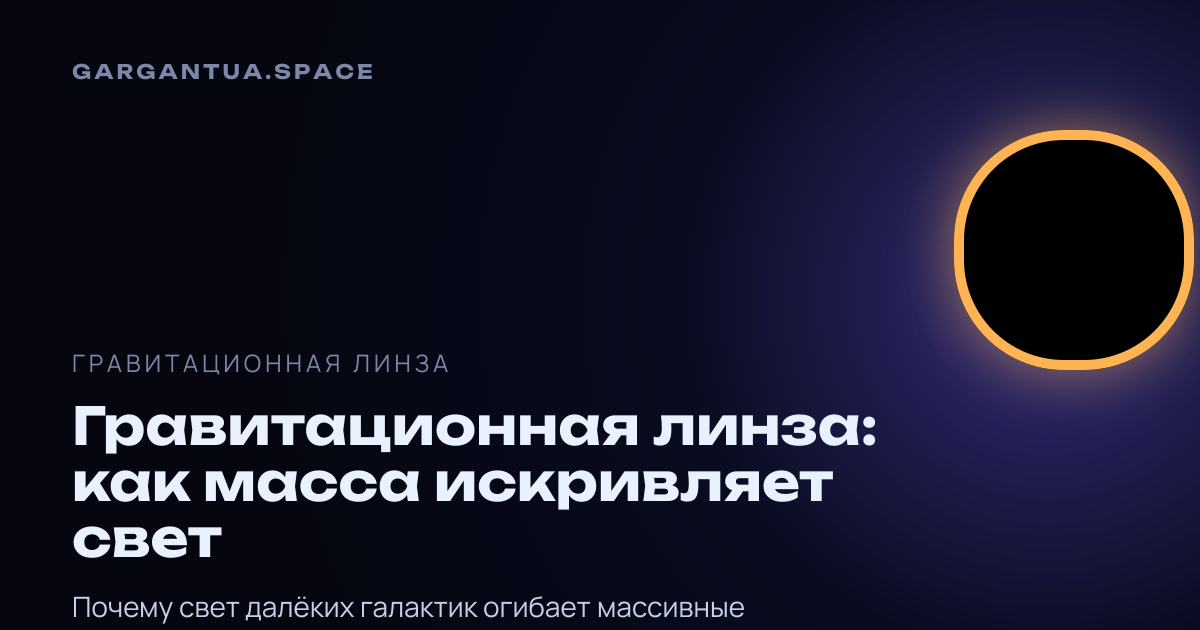
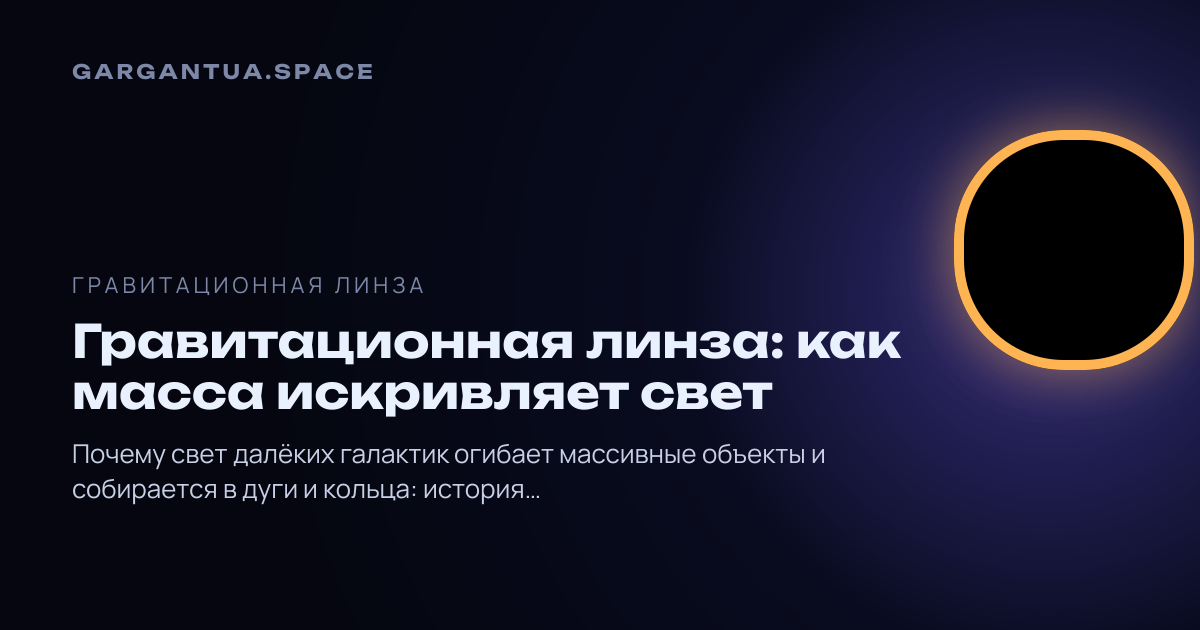
fix: OG-картинка — текст по фиксированной координате, короткий подзаголовок

Changed region(s): [[0.0617, 0.5127, 0.7708, 0.9048], [0.0617, 0.9349, 0.6167, 0.9952], [0.0617, 0.4222, 0.3392, 0.4825]]

diff --git a/src/pages/og/[...path].png.ts b/src/pages/og/[...path].png.ts
@@ -36,7 +36,7 @@ export const GET: APIRoute = async ({ props }) => {
   const { title, kicker } = props as Props;
   // Подзаголовок в одну-две строки: длинное описание обрезаем по слову
   const raw = (props as Props).subtitle;
-  const subtitle = raw.length > 105 ? raw.slice(0, 105).replace(/[\s,:;]+\S*$/, '') + '…' : raw;
+  const subtitle = raw.length > 95 ? raw.slice(0, 95).replace(/[\s,:;]+\S*$/, '') + '…' : raw;
   const [unbC, unbL, manC, manL] = await Promise.all([
     font('unbounded', 'unbounded-cyrillic-700-normal.woff'),
     font('unbounded', 'unbounded-latin-700-normal.woff'),
@@ -79,9 +79,19 @@ export const GET: APIRoute = async ({ props }) => {
             children: [],
           },
         },
-        { type: 'div', props: { style: { fontSize: 24, letterSpacing: 4, textTransform: 'uppercase', color: '#7d87a8', marginBottom: 18, display: 'flex' }, children: kicker } },
-        { type: 'div', props: { style: { fontFamily: 'Unbounded, UnboundedLatin', fontSize: title.length > 28 ? 52 : 68, lineHeight: 1.08, maxWidth: 820, display: 'flex' }, children: title } },
-        { type: 'div', props: { style: { fontSize: 28, lineHeight: 1.35, color: '#c8d0e6', marginTop: 22, maxWidth: 760, display: 'flex' }, children: subtitle } },
+        {
+          type: 'div',
+          props: {
+            // Текст ставим по фиксированной верхней координате: satori занижает высоту
+            // многострочных блоков при выравнивании по низу, и подзаголовок уезжал за край.
+            style: { position: 'absolute', left: 72, top: 270, width: 860, display: 'flex', flexDirection: 'column' },
+            children: [
+              { type: 'div', props: { style: { fontSize: 22, letterSpacing: 4, textTransform: 'uppercase', color: '#7d87a8', marginBottom: 16, display: 'flex' }, children: kicker } },
+              { type: 'div', props: { style: { fontFamily: 'Unbounded, UnboundedLatin', fontSize: title.length > 28 ? 46 : 60, lineHeight: 1.1, display: 'flex' }, children: title } },
+              { type: 'div', props: { style: { fontSize: 26, lineHeight: 1.35, color: '#c8d0e6', marginTop: 18, maxWidth: 760, display: 'flex' }, children: subtitle } },
+            ],
+          },
+        },
         { type: 'div', props: { style: { position: 'absolute', left: 72, top: 60, fontSize: 20, letterSpacing: 3, color: '#7d87a8', textTransform: 'uppercase', fontFamily: 'Unbounded, UnboundedLatin', display: 'flex' }, children: 'gargantua.space' } },
       ],
     },
